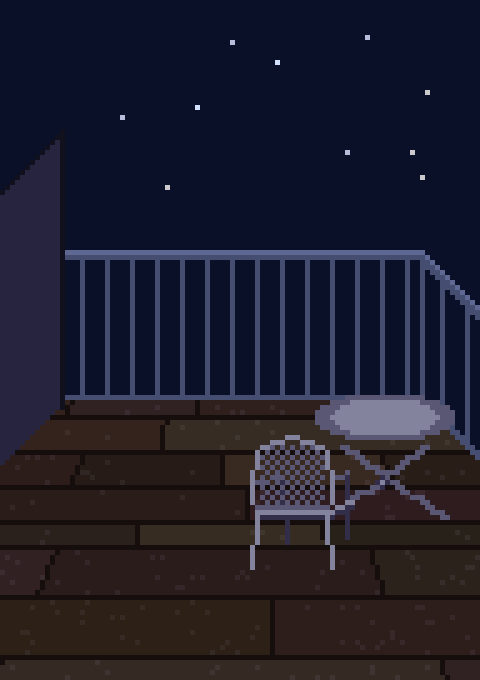
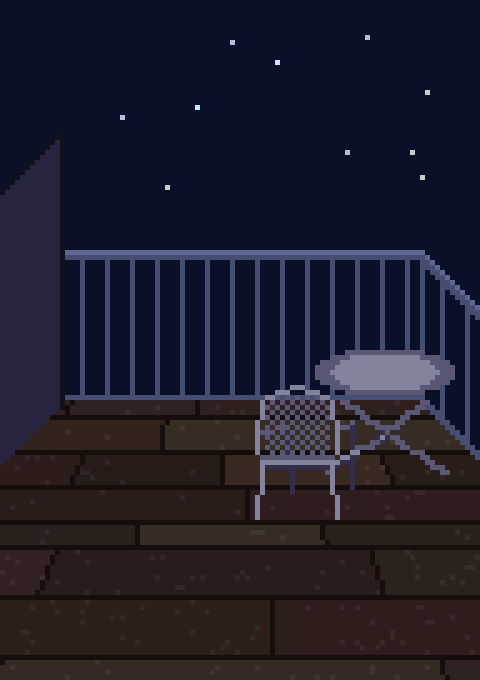
Balcony 2D: furniture pushed deeper
Claude-Session: https://claude.ai/code/session_01FPZSaKiVNU2zED737yZX4w

Changed region(s): [[0.5, 0.4941, 0.9688, 0.8029], [0.6875, 0.8029, 0.7188, 0.8338], [0.5, 0.8029, 0.5312, 0.8338]]

diff --git a/tools/render_balcony2d.py b/tools/render_balcony2d.py
@@ -86,7 +86,7 @@ def main():
             for w in range(TW): seg((xx + w, top_y + d + ST), (xx + w, base_y + d - 1), MR)
     # 쇠 의자와 탁자: 땅 위
     t = lib['iron_table']; c = lib['iron_chair']
-    im.alpha_composite(t, (62, 104 - t.height)); im.alpha_composite(c, (47, 115 - c.height))
+    im.alpha_composite(t, (62, 95 - t.height)); im.alpha_composite(c, (48, 105 - c.height))
     # 밤의 색조
     for y in range(H):
         for x in range(W):
